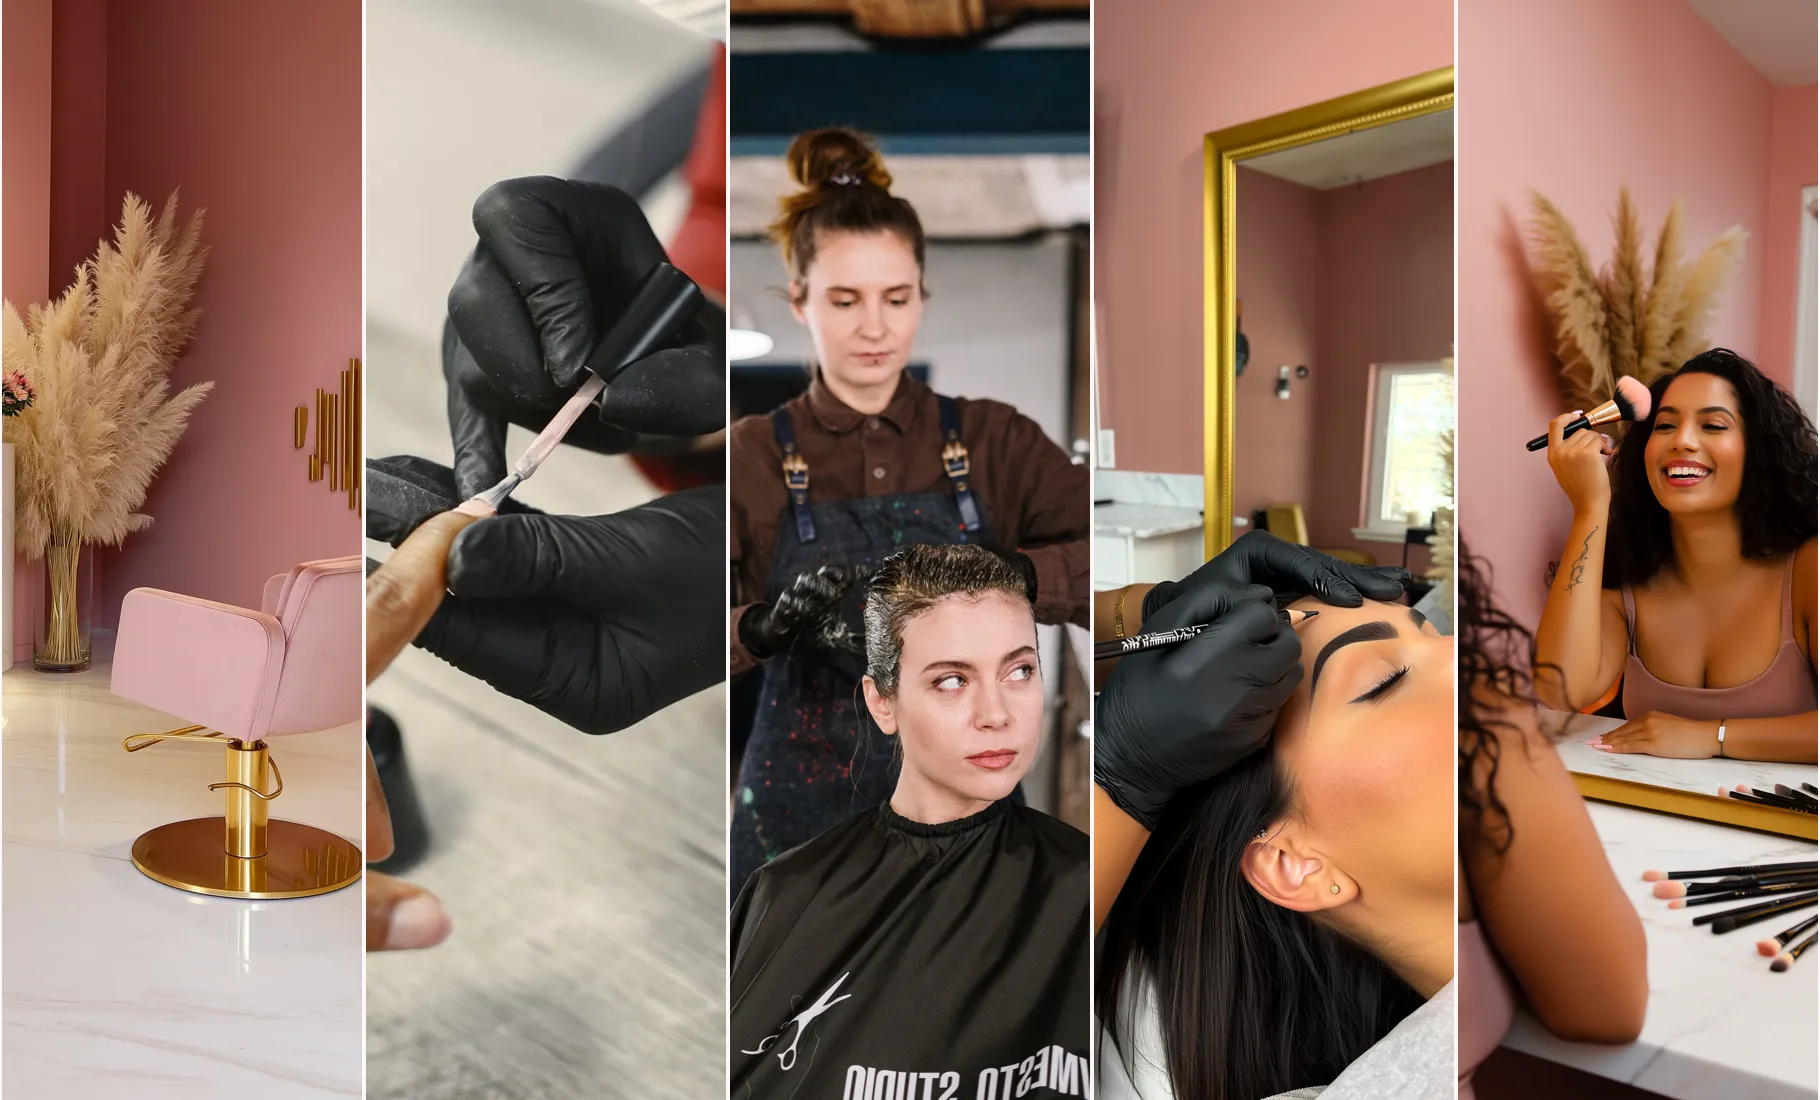
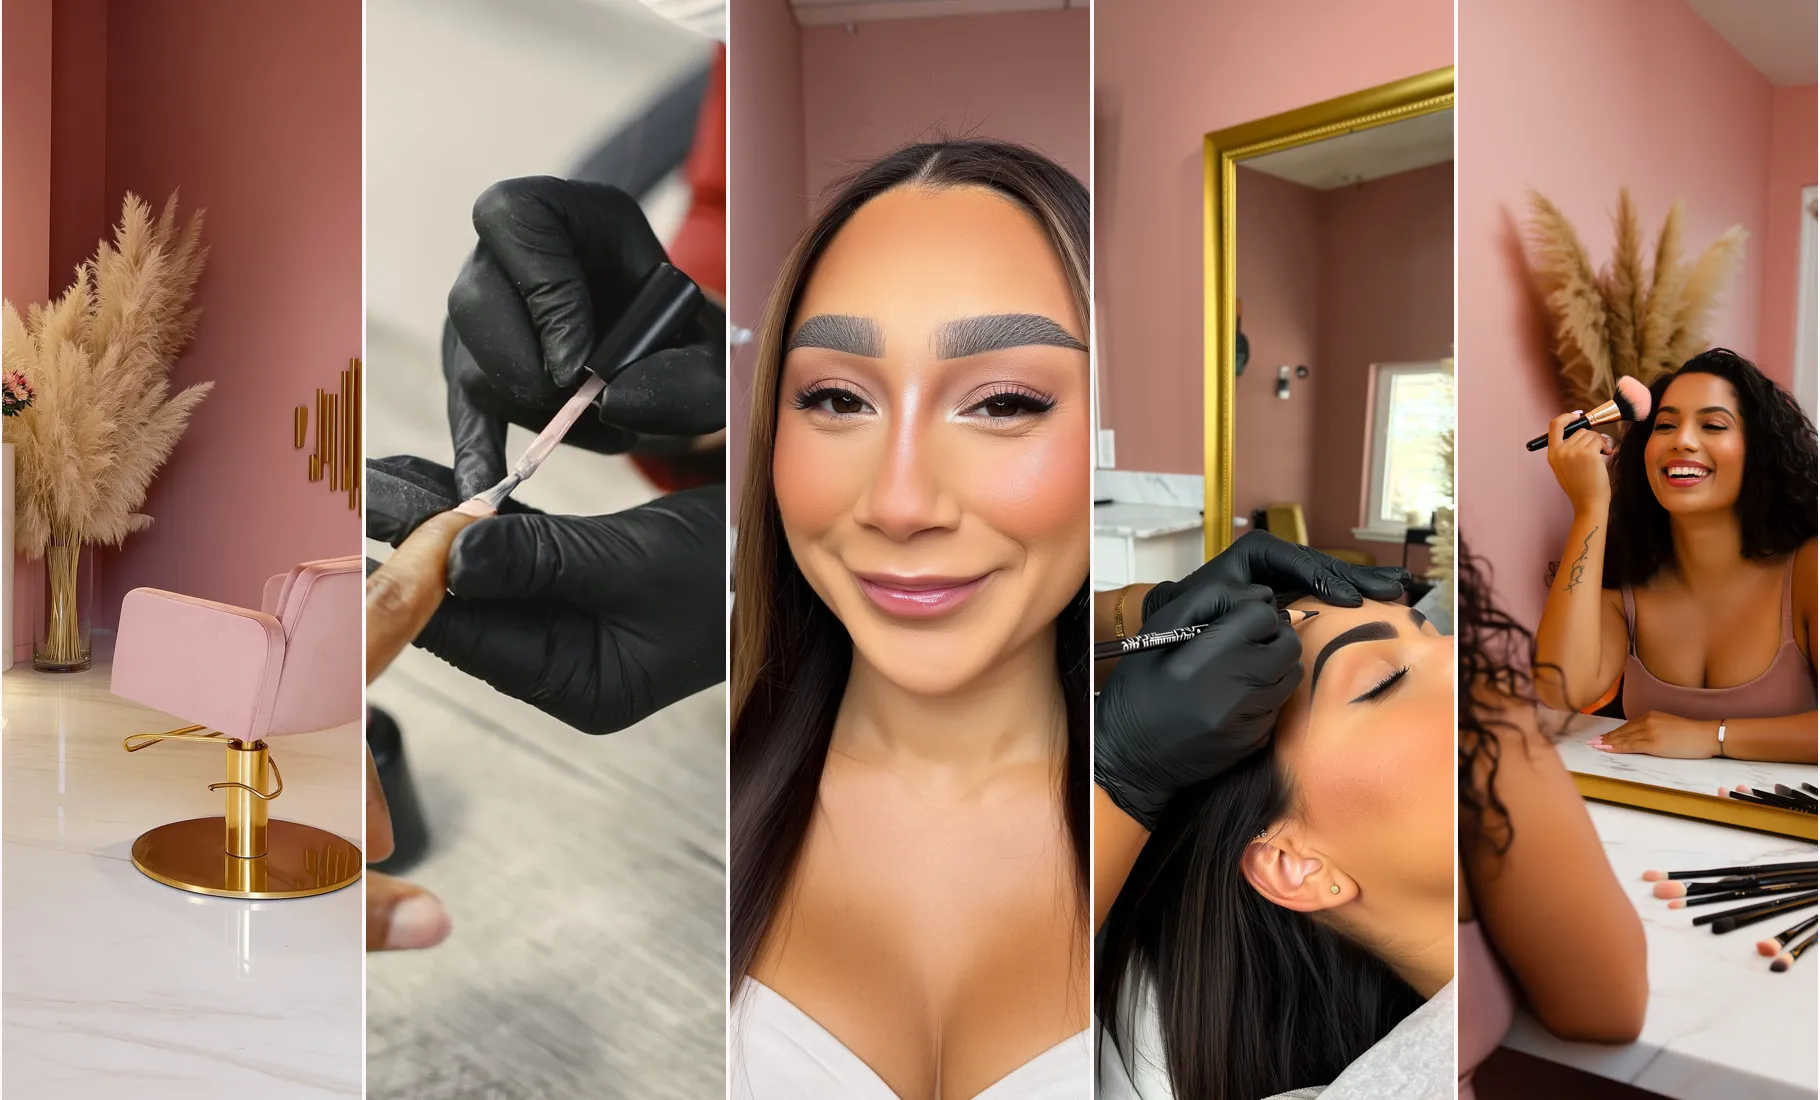
Beleza: sai a Maison Iris, ficam Lirio e Onix; colagem sem a foto de cabelo

Changed region(s): [[0.4, 0.0, 0.6154, 1.0]]

diff --git a/beleza/index.html b/beleza/index.html
@@ -410,6 +410,8 @@ h2{font-size:clamp(2.2rem,4.8vw,3.5rem)}
 .hero h1{max-width:12ch}
 .hero-sub{max-width:46ch}
 @media (max-width:860px){.hero::before{opacity:.3;background-position:30% center}.hero::after{background:linear-gradient(180deg,rgba(255,247,248,.8) 0%,rgba(255,247,248,.88) 50%,var(--ice) 100%)}.hero h1{max-width:none}}
+.mdl-grade{grid-template-columns:repeat(2,minmax(0,1fr));max-width:900px;gap:30px}
+@media (max-width:900px){.mdl-grade{grid-template-columns:1fr;max-width:420px}}
 /* === FIM TEMA BELEZA === */
 </style>
 </head>
@@ -459,13 +461,6 @@ h2{font-size:clamp(2.2rem,4.8vw,3.5rem)}
         <span class="mdl-plano">Sobrancelha e maquiagem</span>
         <strong>Studio Ônix</strong>
         <span class="mdl-txt">Preto e branco com detalhes em dourado. Visual de salão de luxo.</span>
-        <span class="mdl-abrir">Abrir o modelo →</span>
-      </a>
-      <a class="mdl" href="https://inksites.github.io/salao-modelo-fino/" target="_blank" rel="noopener">
-        <span class="mdl-tela"><img src="maison-iris.webp" alt="Maison Íris: topo do site de salão de cabelo" loading="lazy" width="480" height="560"></span>
-        <span class="mdl-plano">Cabelo e coloração</span>
-        <strong>Maison Íris</strong>
-        <span class="mdl-txt">Claro e elegante, com letras finas. Serviços, preços e agendamento pelo WhatsApp.</span>
         <span class="mdl-abrir">Abrir o modelo →</span>
       </a>
     </div>
